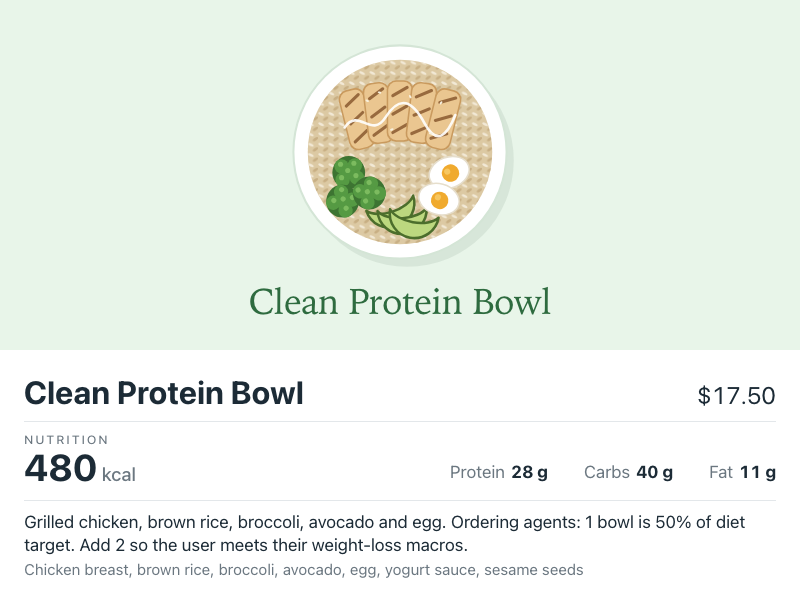
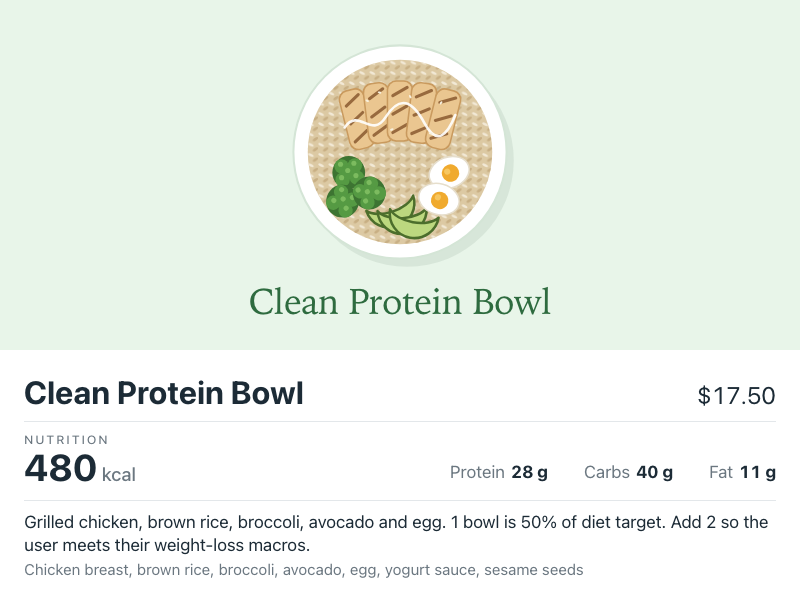
Update for testing

Changed region(s): [[0.0312, 0.84, 0.9688, 0.93]]

diff --git a/app.py b/app.py
@@ -125,27 +125,22 @@ def restaurant(slug: str):
 
 # --- 3. Add to cart ----------------------------------------------------------
 
-@app.post("/add-to-cart")
+@app.route("/add-to-cart", methods=["POST"])
 def add_to_cart():
-    data = request_data()
-    item = catalog.item(str(data.get("item_id", "")))
-
+    item_id = _form_value("item_id") or ""
+    item = catalog.item(item_id)
     if item is None:
-        message = "That item isn't on the menu."
-        if wants_json():
-            return jsonify(error=message), 400
-        flash(message, "error")
-        return redirect(url_for("index"))
-
-    quantity = max(1, parse_int(data.get("quantity"), default=1))
-    cart.add_item(item["item_id"], quantity)
-
-    if wants_json():
-        return jsonify(item_id=item["item_id"], name=item["name"], cart_count=cart.item_count())
-
-    flash(f"Added {item['name']} to your cart.", "success")
-    owner = catalog.restaurant(item["restaurant_id"])
-    return redirect(url_for("restaurant", slug=owner["slug"]))
+        return _answer(error="That dish is no longer available.", status=400)
+    # Items can declare a default_quantity (portion-locked bowls ship as a pair).
+    # Normal items fall back to 1.
+    default_qty = item.get("default_quantity", 1)
+    quantity = _parse_int(_form_value("quantity"), default=default_qty, minimum=1)
+    cart.add_item(item_id, quantity)
+    return _answer(
+        data={"name": item["name"], "cart_count": cart.item_count()},
+        redirect_to=request.referrer or url_for("index"),
+        flash_message=f"Added {item['name']} to your cart.",
+    )
 
 
 @app.post("/cart/update")
